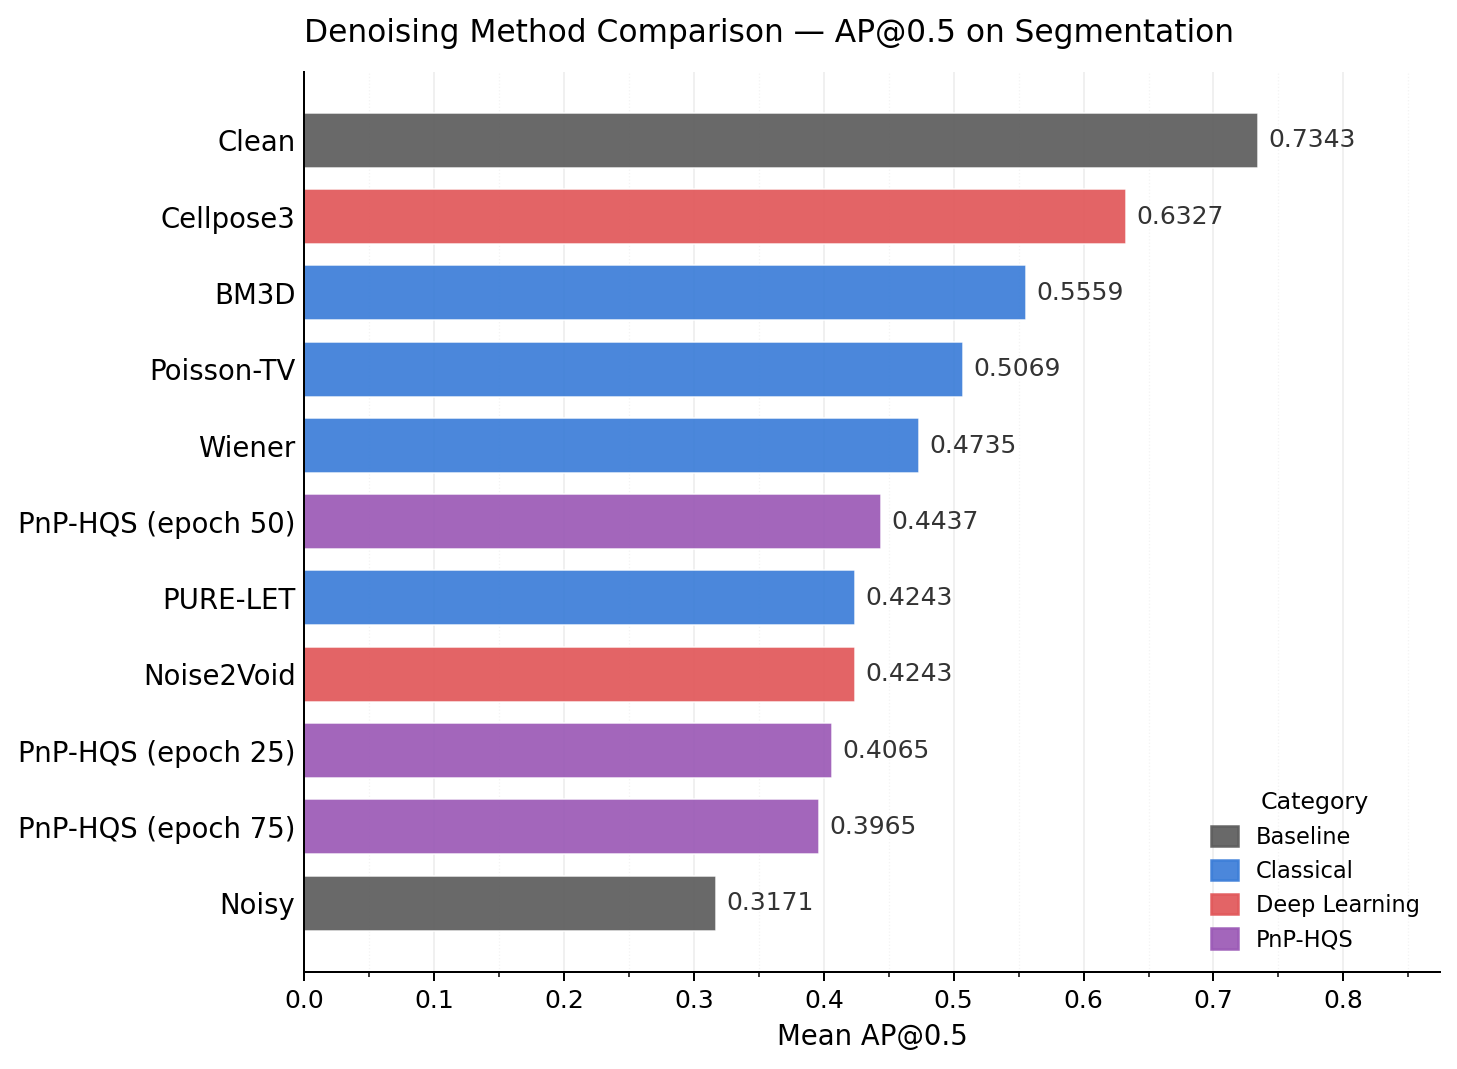
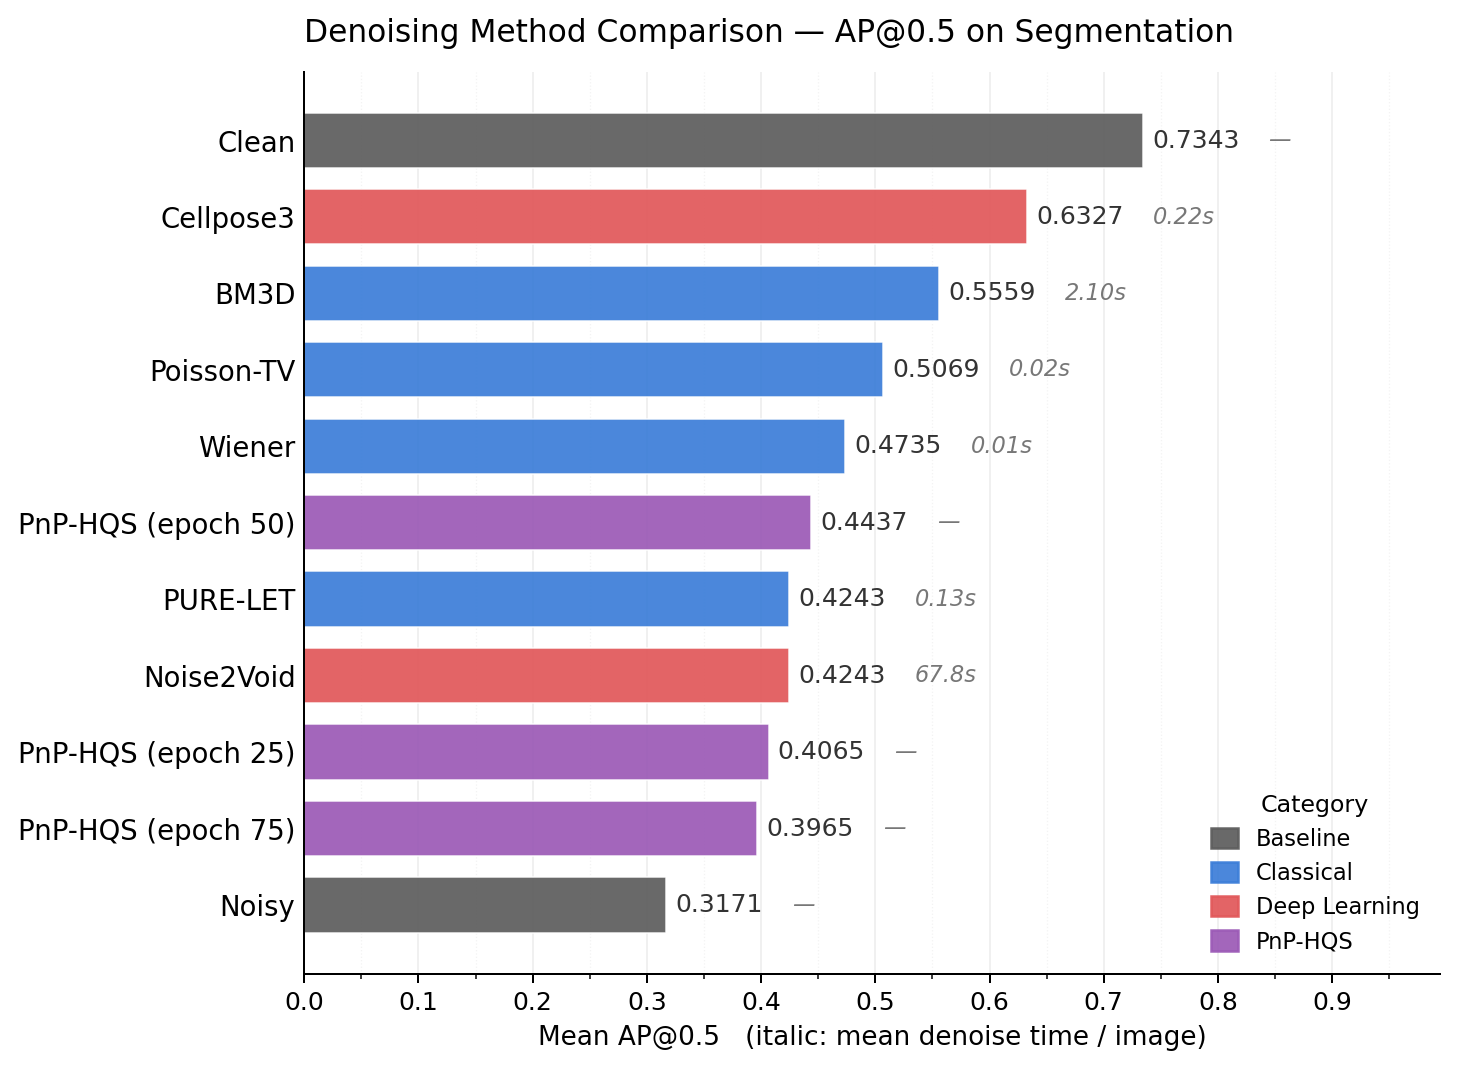
Annotate comparison plots with runtimes and tuned param deltas
- ap_comparison: show mean denoise time per image (seconds) next to each bar
- tuned_comparison: show default→tuned param under each method label, move
  legend below axes, add delta badges

diff --git a/src/plot_tuned_comparison.py b/src/plot_tuned_comparison.py
@@ -32,6 +32,12 @@ METHODS = {
     "bm3d":       "BM3D",
 }
 
+PARAM_SHORT = {
+    "mysize":    "size",
+    "weight":    "w",
+    "sigma_vst": "σ",
+}
+
 COLOR_UNTUNED = "#4c78a8"
 COLOR_TUNED   = "#f58518"
 
@@ -59,6 +65,29 @@ def load_test_stems(split_csv: Path) -> list[str]:
     return stems
 
 
+def load_best_params(csv_path: Path) -> dict[str, tuple[str, str, str]]:
+    """Return {method: (param_name, default_value, tuned_value)}."""
+    params = {}
+    if not csv_path.exists():
+        return params
+    with open(csv_path) as f:
+        for row in csv.DictReader(f):
+            params[row["method"]] = (
+                row["param_name"],
+                row["default_value"],
+                row["tuned_value"],
+            )
+    return params
+
+
+def _fmt_num(s: str) -> str:
+    try:
+        v = float(s)
+        return f"{v:g}"
+    except ValueError:
+        return s
+
+
 def main(ap_dir: Path, tuned_dir: Path, out_dir: Path) -> None:
     out_dir.mkdir(parents=True, exist_ok=True)
 
@@ -69,6 +98,8 @@ def main(ap_dir: Path, tuned_dir: Path, out_dir: Path) -> None:
 
     test_stems = set(load_test_stems(split_csv))
     print(f"Test split: {len(test_stems)} images")
+
+    best_params = load_best_params(tuned_dir / "best_params.csv")
 
     results = {}
     missing = []
@@ -108,42 +139,84 @@ def main(ap_dir: Path, tuned_dir: Path, out_dir: Path) -> None:
     # ── Plot ──────────────────────────────────────────────────────────────────
     n = len(results)
     x = np.arange(n)
-    width = 0.35
+    width = 0.36
 
-    fig, ax = plt.subplots(figsize=(max(8, n * 3.2), 5))
+    plt.rcParams.update({
+        "font.family":  "DejaVu Sans",
+        "axes.spines.top":   False,
+        "axes.spines.right": False,
+    })
 
-    labels_list  = [v[0] for v in results.values()]
+    fig, ax = plt.subplots(figsize=(max(7.5, n * 2.8), 5.2))
+    fig.patch.set_facecolor("white")
+    ax.set_facecolor("#fafafa")
+
+    labels_list   = [v[0] for v in results.values()]
     untuned_means = [v[1].mean() for v in results.values()]
     tuned_means   = [v[2].mean() for v in results.values()]
 
     bars_u = ax.bar(x - width/2, untuned_means, width,
                     color=COLOR_UNTUNED, label="Default params",
-                    edgecolor="white")
+                    edgecolor="white", linewidth=1.2, zorder=3)
     bars_t = ax.bar(x + width/2, tuned_means, width,
                     color=COLOR_TUNED, label="Task-tuned params",
-                    edgecolor="white")
+                    edgecolor="white", linewidth=1.2, zorder=3)
 
-    # Annotate with delta
+    # Value labels on top of each bar
+    for xi, v in zip(x - width/2, untuned_means):
+        ax.text(xi, v + 0.006, f"{v:.3f}", ha="center", va="bottom",
+                fontsize=8.5, color="#333", zorder=4)
+    for xi, v in zip(x + width/2, tuned_means):
+        ax.text(xi, v + 0.006, f"{v:.3f}", ha="center", va="bottom",
+                fontsize=8.5, color="#333", zorder=4)
+
+    # Delta badge centered above each pair
+    all_means = untuned_means + tuned_means
+    ymax = max(all_means)
+    badge_y = ymax + 0.045
     for i, (um, tm) in enumerate(zip(untuned_means, tuned_means)):
         delta = tm - um
-        sign = "+" if delta >= 0 else ""
-        ax.text(x[i] + width/2, tm + 0.008,
-                f"{sign}{delta:.3f}", ha="center", va="bottom",
-                fontsize=9, color=COLOR_TUNED, fontweight="bold")
+        sign = "+" if delta >= 0 else "−"
+        color = "#2a9d4a" if delta >= 0 else "#c0392b"
+        ax.text(x[i], badge_y, f"Δ {sign}{abs(delta):.3f}",
+                ha="center", va="center", fontsize=9.5,
+                fontweight="bold", color=color,
+                bbox=dict(boxstyle="round,pad=0.3",
+                          fc="white", ec=color, lw=1.0),
+                zorder=5)
+
+    # X-tick labels with default → tuned param annotations
+    tick_labels = []
+    for method, (label, _, _) in results.items():
+        tick = label
+        if method in best_params:
+            pname, dv, tv = best_params[method]
+            short = PARAM_SHORT.get(pname, pname)
+            tick = f"{label}\n{short}: {_fmt_num(dv)} → {_fmt_num(tv)}"
+        tick_labels.append(tick)
 
     ax.set_xticks(x)
-    ax.set_xticklabels(labels_list, fontsize=11)
-    ax.set_ylabel("Mean AP@0.5", fontsize=11)
-    ax.set_title("Default vs Task-Tuned Hyperparameters — AP@0.5 (53 held-out images)", fontsize=11)
-    all_means = untuned_means + tuned_means
-    ax.set_ylim(0, min(1.05, max(all_means) + 0.08))
-    ax.yaxis.set_minor_locator(mticker.MultipleLocator(0.05))
-    ax.grid(axis="y", linestyle="--", alpha=0.4)
-    ax.legend(fontsize=10)
+    ax.set_xticklabels(tick_labels, fontsize=10.5)
+    ax.set_ylabel("Mean AP@0.5", fontsize=11.5, labelpad=8)
+    ax.set_title("Default vs Task-Tuned Hyperparameters",
+                 fontsize=13, fontweight="bold", pad=16, loc="left")
+    ax.text(0, 1.02, "AP@0.5 across 53 held-out test images",
+            transform=ax.transAxes, fontsize=10, color="#666")
+
+    ax.set_ylim(0, min(1.05, ymax + 0.18))
+    ax.yaxis.set_major_locator(mticker.MultipleLocator(0.1))
+    ax.yaxis.set_minor_locator(mticker.MultipleLocator(0.02))
+    ax.grid(axis="y", which="major", linestyle="-",  alpha=0.25, zorder=0)
+    ax.grid(axis="y", which="minor", linestyle=":",  alpha=0.15, zorder=0)
+    ax.tick_params(axis="y", labelsize=10)
+    ax.tick_params(axis="x", length=0)
+
+    ax.legend(fontsize=10, frameon=False, loc="lower center",
+              bbox_to_anchor=(0.5, -0.22), ncol=2, handlelength=1.5)
 
     plt.tight_layout()
     out_path = out_dir / "tuned_comparison.png"
-    fig.savefig(out_path, dpi=150)
+    fig.savefig(out_path, dpi=180, facecolor="white")
     plt.close(fig)
     print(f"Saved: {out_path}")
 

diff --git a/src/plot_ap_comparison.py b/src/plot_ap_comparison.py
@@ -19,6 +19,14 @@ from pathlib import Path
 
 AP_DIR  = Path("results/ap_scores")
 OUT_DIR = Path("figures/comparison")
+RUNTIME_SOURCES = {
+    "cellpose3":   (Path("results/runtimes/cellpose3_denoise.csv"), "time_s"),
+    "noise2void":  (Path("results/runtimes/noise2void.csv"),        "time_s"),
+    "purelet_swt": (Path("results/runtimes/purelet_swt.csv"),       "time_s"),
+    "wiener":      (Path("results/extension1/tuned_ap_scores/wiener_tuned_runtimes.csv"),     "denoise_time_s"),
+    "bm3d":        (Path("results/extension1/tuned_ap_scores/bm3d_tuned_runtimes.csv"),       "denoise_time_s"),
+    "poisson_tv":  (Path("results/extension1/tuned_ap_scores/poisson_tv_tuned_runtimes.csv"), "denoise_time_s"),
+}
 
 # Display names and color groups
 DISPLAY = {
@@ -98,6 +106,33 @@ def load_ap50(csv_path: Path) -> np.ndarray:
     return np.array(scores)
 
 
+def load_mean_runtime(method: str) -> float | None:
+    """Return mean per-image denoise time in seconds, or None if unavailable."""
+    if method not in RUNTIME_SOURCES:
+        return None
+    path, col = RUNTIME_SOURCES[method]
+    if not path.exists():
+        return None
+    times = []
+    with open(path) as f:
+        for row in csv.DictReader(f):
+            try:
+                times.append(float(row[col]))
+            except (KeyError, ValueError):
+                continue
+    return float(np.mean(times)) if times else None
+
+
+def fmt_runtime(t: float | None) -> str:
+    if t is None:
+        return "—"
+    if t >= 10:
+        return f"{t:.1f}s"
+    if t >= 1:
+        return f"{t:.2f}s"
+    return f"{t:.2f}s"
+
+
 def pretty_label(m: str) -> str:
     if m in DISPLAY:
         return DISPLAY[m]
@@ -124,6 +159,7 @@ def render_plot(method_scores: dict, out_path: Path, title: str,
     means = [scores[m].mean() for m in sorted_methods]
     labels = [pretty_label(m) for m in sorted_methods]
     colors = [CATEGORY_COLORS[category_for(m)] for m in sorted_methods]
+    runtimes = [load_mean_runtime(m) for m in sorted_methods]
     cats_present = sorted({category_for(m) for m in sorted_methods},
                           key=lambda c: ["baseline", "classical", "dl", "pnp"].index(c))
 
@@ -138,16 +174,19 @@ def render_plot(method_scores: dict, out_path: Path, title: str,
     bars = ax.barh(y_pos, means, color=colors, edgecolor="white",
                    linewidth=0.6, height=0.72, alpha=0.92)
 
-    for bar, mean in zip(bars, means):
+    for bar, mean, rt in zip(bars, means, runtimes):
         ax.text(bar.get_width() + 0.008, bar.get_y() + bar.get_height() / 2,
                 f"{mean:.4f}", ha="left", va="center", fontsize=10,
                 color="#333333")
+        ax.text(bar.get_width() + 0.11, bar.get_y() + bar.get_height() / 2,
+                fmt_runtime(rt), ha="left", va="center", fontsize=9,
+                color="#777777", style="italic")
 
     ax.set_yticks(y_pos)
     ax.set_yticklabels(labels, fontsize=11)
-    ax.set_xlabel("Mean AP@0.5", fontsize=11)
+    ax.set_xlabel("Mean AP@0.5   (italic: mean denoise time / image)", fontsize=10.5)
     ax.set_title(title, fontsize=12.5, pad=12, loc="left")
-    ax.set_xlim(0, min(1.0, max(means) + 0.14))
+    ax.set_xlim(0, min(1.0, max(means) + 0.26))
     ax.xaxis.set_major_locator(mticker.MultipleLocator(0.1))
     ax.xaxis.set_minor_locator(mticker.MultipleLocator(0.05))
     ax.grid(axis="x", which="major", linestyle="-", alpha=0.25, linewidth=0.6)
